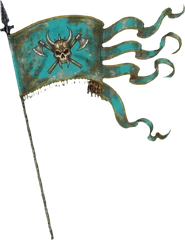
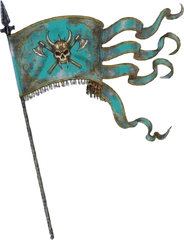
Charlemagne : vraie bannière de l'Aquitaine (et détourage plus fin des Slaves)
Détourage par démélange du fond vert : les franges et les pointes des rubans
gardent leur dessin, sans halo vert. L'Aquitaine passe au jaune de son drapeau.

Claude-Session: https://claude.ai/code/session_01ThAJAhzQCU9J3QinbMEDkL

Changed region(s): [[0.0, 0.0, 1.0, 1.0], [0.6522, 0.4083, 0.6793, 0.4667]]

diff --git a/js/charlemagne.js b/js/charlemagne.js
@@ -145,7 +145,7 @@ const CHARLEMAGNE = {
       desc: tr('Le dernier royaume chrétien d\'Espagne, dans ses montagnes.', 'The last Christian kingdom of Spain, in its mountains.'),
     },
     {
-      id: 'aquitaine', name: tr('Aquitaine', 'Aquitaine'), leader: tr('le duc Hunald II', 'Duke Hunald II'), flag: 'b04', color: [214, 140, 30],
+      id: 'aquitaine', name: tr('Aquitaine', 'Aquitaine'), leader: tr('le duc Hunald II', 'Duke Hunald II'), flag: 'cm_aquitaine', color: [224, 198, 36],
       playable: true,
       capital: [-0.58, 44.84, tr('Bordeaux', 'Bordeaux')],
       cities: [[0.72, 45.18, tr('Périgueux', 'Périgueux')]],
